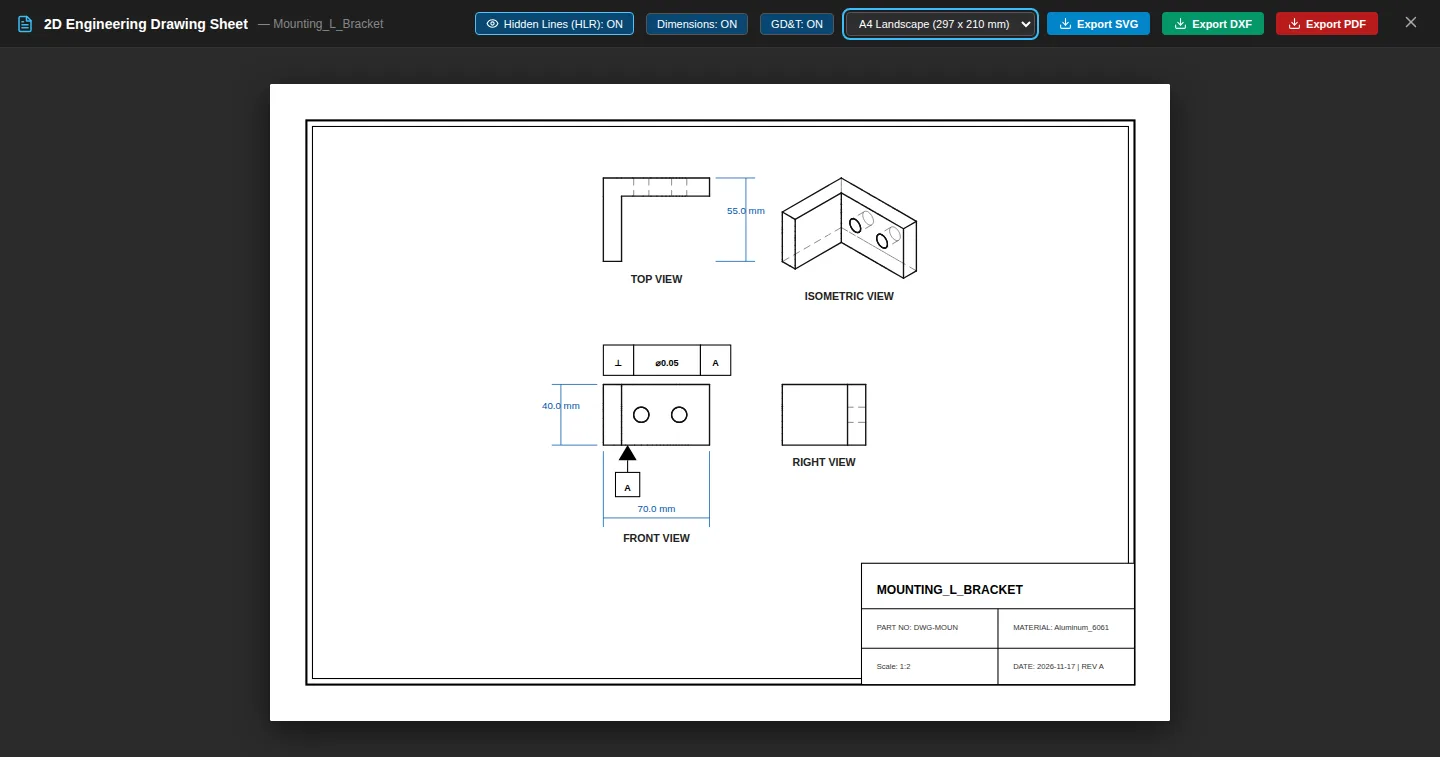
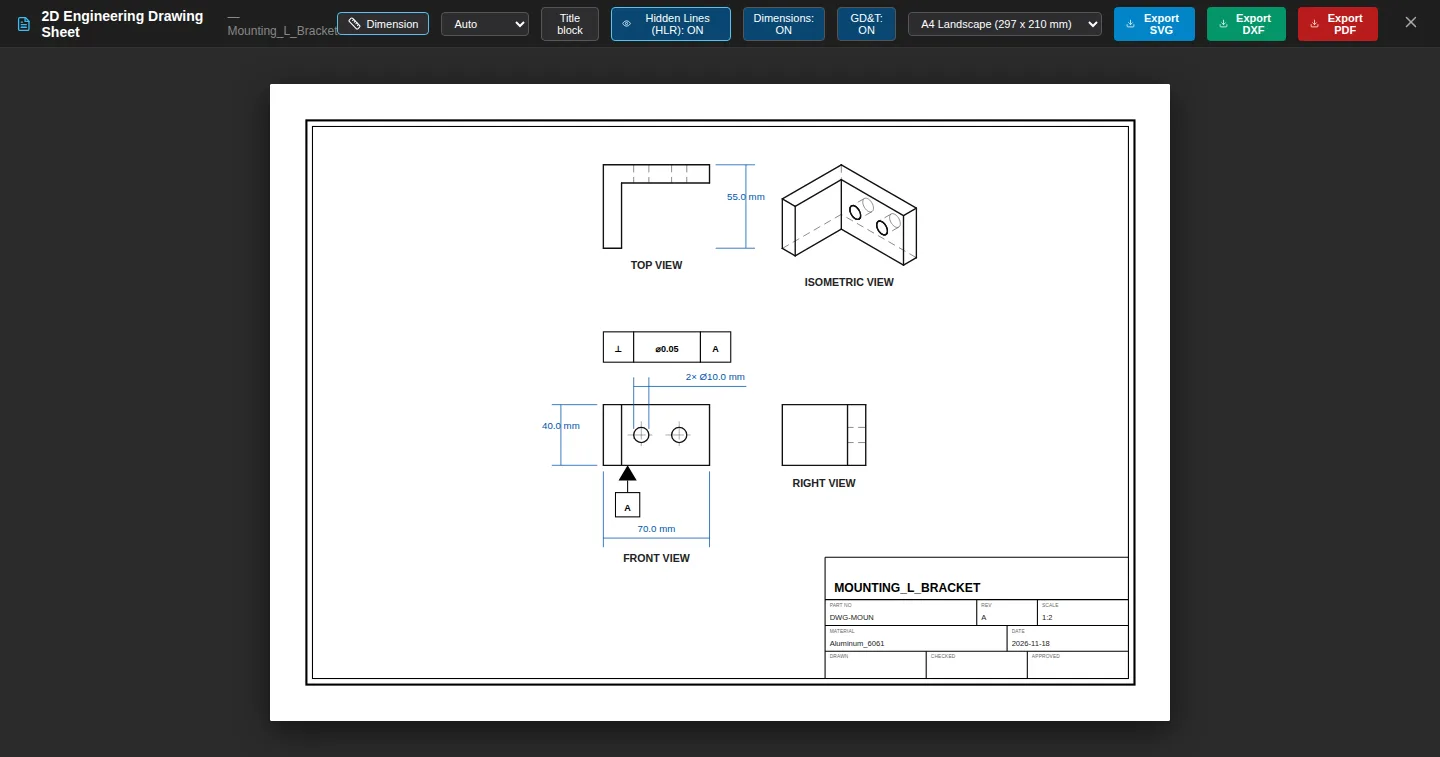
[5.1–5.4, 8.3] Tutorial: own drawing dimensions, title block editor, sheet sizes, unit systems
Chapter 11 gains examples for placing dimensions that follow the model and
for filling in the title block; sheet sizes A4–A0 and ANSI A–D; true circles
and hole callouts; GD&T in PDF as well as SVG. Chapter 8 gains a units
section (MMGS, CGS, MKS, IPS). API table, current limits and glossary
updated. New screenshots from scripts/tutorial-shots.ts; README updated.

diff --git a/docs/tutorial/index.html b/docs/tutorial/index.html
@@ -267,7 +267,7 @@ npm run dev</pre></div>
       <figure class="shot"><img loading="lazy" src="img/01-interface.webp" alt="The CasiWorks Pro window with the starter block"><figcaption>The app as it first opens, with the starter block in the isometric view.</figcaption></figure>
       <div class="table-wrap"><table>
         <tr><th>Area</th><th>Where</th><th>What it does</th></tr>
-        <tr><td><b>Quick-access bar</b></td><td>Top row</td><td>New, Open, Save, Undo, Redo, Rebuild, the <b>Examples</b> menu, Material, Mass Props and Export.</td></tr>
+        <tr><td><b>Quick-access bar</b></td><td>Top row</td><td>New, Open, Save, Undo, Redo, Rebuild, the <b>Examples</b> menu, Material, Mass Props and Export. In the middle: the part's name and its unit system (MMGS, CGS, MKS or IPS); click the units to change them (Chapter 8).</td></tr>
         <tr><td><b>Ribbon</b></td><td>Below the top bar</td><td>Tabs of commands: Features, Sketch, Assembly, Evaluate, Drawing, Tools and Add-ins. The ⌃ button at the far right folds it away.</td></tr>
         <tr><td><b>Feature tree</b></td><td>Left</td><td>The history of your part: material, reference planes, and every sketch and feature in the order it was made. The <b>rollback bar</b> sits at the bottom.</td></tr>
         <tr><td><b>Viewport</b></td><td>Centre</td><td>The 3D model with the Front, Top and Right planes. The <b>VIEW</b> box (top right) jumps to standard views.</td></tr>
@@ -642,7 +642,7 @@ casiworks.commands.execute(<span class="tok-s">'equations.list'</span>);  <span 
 <section class="chapter" id="ch8" data-title="Materials & mass properties" data-part="intermediate" data-n="8">
   <div class="chapter-head"><span class="badge intermediate">Intermediate</span><span class="meta">Chapter 8 · about 10 min</span></div>
   <h2 class="title">Materials and mass properties</h2>
-  <div class="objectives"><strong>You will learn to</strong><ul><li>Give a part a material from the library</li><li>Read its mass, volume, surface area, centre of mass and inertia</li><li>Measure distances, angles and wall thicknesses on the model</li></ul></div>
+  <div class="objectives"><strong>You will learn to</strong><ul><li>Give a part a material from the library</li><li>Read its mass, volume, surface area, centre of mass and inertia</li><li>Measure distances, angles and wall thicknesses on the model</li><li>Work in inches and pounds, or centimetres or metres</li></ul></div>
   <div class="example">
     <div class="example-head"><span class="tag">Example 8.1</span><h4>Weigh the L-bracket in aluminium</h4><div class="specs"><span>Al 6061-T6</span><span>2700 kg/m³</span><span>141.37 g</span></div></div>
     <div class="example-body">
@@ -695,6 +695,32 @@ casiworks.commands.execute(<span class="tok-s">'equations.list'</span>);  <span 
       <div class="callout tip"><span class="ic">💡</span><div><b class="label">From a script</b><p><code>api.features.coordinateSystem({ origin, rotation: { z: 90 } })</code> adds one, and <code>api.model.massProperties({ coordinateSystem: id })</code> reports in it. Its origin and turns can be driven by equations, e.g. <code>rotation.z</code>.</p></div></div>
     </div>
   </div>
+  <h3>Units: millimetres, inches and more</h3>
+  <div class="example">
+    <div class="example-head"><span class="tag">Example 8.4</span><h4>A 2 × 1 × 0.5 inch steel block</h4><div class="specs"><span>IPS</span><span>1 in³</span><span>0.285 lb</span></div></div>
+    <div class="example-body">
+      <p>Each document has a <b>unit system</b>. It sets the units the app shows you and the units it reads when you type a number:</p>
+      <div class="table-wrap"><table>
+        <tr><th>System</th><th>Length</th><th>Mass</th></tr>
+        <tr><td>MMGS (the default)</td><td>millimetre</td><td>gram</td></tr>
+        <tr><td>CGS</td><td>centimetre</td><td>gram</td></tr>
+        <tr><td>MKS</td><td>metre</td><td>kilogram</td></tr>
+        <tr><td>IPS</td><td>inch</td><td>pound</td></tr>
+      </table></div>
+      <ol class="steps">
+        <li>Start a new part. In the top bar, click <b>MMGS</b> next to the part name and choose <b>IPS</b>. The badge at the right of the status bar now says <b>IPS</b>.</li>
+        <li>Sketch a 2 × 1 rectangle on the Front plane. Sketch dimensions are now in inches.</li>
+        <li>Click <b>Extrude</b> and type <code>0.5</code> for the depth. The field shows <b>in</b> after the number. Click <b>OK</b>.</li>
+        <li>Open <b>Mass Props</b>. The volume is 1 in³, the surface area 7 in², and the steel block weighs 0.285 lb. The mass in kilograms is shown next to it in grey.</li>
+      </ol>
+      <div class="gallery">
+        <figure class="shot"><img loading="lazy" src="img/44-units.webp" alt="Extrude panel with the depth in inches and IPS in the top bar"><figcaption>IPS: the depth field takes inches.</figcaption></figure>
+        <figure class="shot"><img loading="lazy" src="img/44b-units-mass.webp" alt="Mass properties in cubic inches and pounds"><figcaption>Mass Properties in inches and pounds.</figcaption></figure>
+      </div>
+    </div>
+  </div>
+  <div class="callout tip"><span class="ic">💡</span><div><b class="label">Type any unit</b><p>A number on its own is read in the document's units. Add a unit to type in another one: <code>25.4 mm</code>, <code>1in</code>, <code>1"</code> or <code>2 ft</code> all work in any length field.</p></div></div>
+  <div class="callout warn"><span class="ic">⚠</span><div><b class="label">Stored in millimetres</b><p>The unit system only changes what you see and type. The model, saved files, equations (Tools ▸ Equations) and the scripting API stay in millimetres, kilograms and seconds. A script that makes a 1 inch extrude passes <code>depth: 25.4</code>. Changing the units never changes the model.</p></div></div>
   <div class="exercise"><b>Exercise 8.</b> Find the lightest material in the library that still has a yield strength above 250 MPa. What does the bracket weigh in it?<label><input type="checkbox" data-done="ch8"> I've done this</label></div>
 </section>
 
@@ -813,30 +839,58 @@ api.assembly.drive(api.assembly.mates().at(-1).id, 90);   <span class="tok-c">//
 </section>
 
 <section class="chapter" id="ch11" data-title="2D engineering drawings" data-part="advanced" data-n="11">
-  <div class="chapter-head"><span class="badge advanced">Advanced</span><span class="meta">Chapter 11 · about 10 min</span></div>
+  <div class="chapter-head"><span class="badge advanced">Advanced</span><span class="meta">Chapter 11 · about 20 min</span></div>
   <h2 class="title">2D engineering drawings</h2>
-  <div class="objectives"><strong>You will learn to</strong><ul><li>Make a standard three-view drawing sheet from a part</li><li>Turn hidden lines, dimensions and GD&amp;T on and off</li><li>Export the sheet as PDF, SVG or DXF</li><li>Make an assembly drawing with a parts list and item balloons</li></ul></div>
+  <div class="objectives"><strong>You will learn to</strong><ul><li>Make a standard three-view drawing sheet from a part</li><li>Turn hidden lines, dimensions and GD&amp;T on and off</li><li>Export the sheet as PDF, SVG or DXF</li><li>Add your own dimensions that follow the model when it changes</li><li>Fill in the title block: company, part number, revision and names</li><li>Make an assembly drawing with a parts list and item balloons</li></ul></div>
   <div class="example">
     <div class="example-head"><span class="tag">Example 11.1</span><h4>A drawing sheet for the L-bracket</h4><div class="specs"><span>A4 landscape</span><span>Front · Top · Right · Iso</span><span>Title block</span></div></div>
     <div class="example-body">
       <ol class="steps">
         <li>Open the L-bracket and click the <b>Drawing</b> tab on the ribbon.</li>
-        <li>Choose the sheet size in the <b>SHEET</b> group: A4 landscape or portrait, A3 landscape or ANSI B.</li>
+        <li>Choose the sheet size in the <b>SHEET</b> group: ISO A4 (landscape or portrait), A3, A2, A1 or A0, or ANSI A, B, C or D. On a bigger sheet the views are drawn at a bigger scale.</li>
         <li>In the <b>SHOW</b> group, switch <b>Hidden Lines</b>, <b>Dimensions</b> and <b>GD&amp;T</b> on or off. A highlighted button is on.</li>
-        <li>Click <b>Open Sheet</b>. The sheet shows the front, top and right views, an isometric view and a title block with the part name, material and date. The green <b>2D Dwg</b> button on the FEA panel opens the same sheet.</li>
+        <li>Click <b>Open Sheet</b>. The sheet shows the front, top and right views, an isometric view and a title block with the part name, material and date. Holes are drawn as true circles with centre marks, and their sizes are given as callouts such as <i>2× Ø10.0 mm</i>. The green <b>2D Dwg</b> button on the FEA panel opens the same sheet.</li>
         <li>Click <b>PDF</b> for a sheet to print or send, <b>SVG</b> to put it in a document or web page, or <b>DXF</b> to open it in AutoCAD or another 2D CAD program. You can export straight from the ribbon without opening the sheet, or use the <b>Export</b> buttons on the sheet. The PDF is vector: lines stay sharp at any zoom, and it prints at true scale on the chosen paper size.</li>
       </ol>
       <figure class="shot"><img loading="lazy" src="img/26-drawing-tab.webp" alt="Drawing tab of the ribbon with sheet, show and export groups"><figcaption>The Drawing tab: sheet size, what to show, and export.</figcaption></figure>
       <figure class="shot"><img loading="lazy" src="img/26-drawing.webp" alt="Drawing sheet of the L-bracket"><figcaption>The drawing sheet, with dimensions, a datum and a feature control frame.</figcaption></figure>
     </div>
   </div>
-  <div class="callout tip"><span class="ic">💡</span><div><b class="label">Shared settings</b><p>The ribbon and the sheet window use the same settings, so a switch changed in one shows in the other. The settings stay when you start a new part. DXF holds the views and dimensions; the GD&amp;T symbols are in the SVG only.</p></div></div>
-  <div class="callout warn"><span class="ic">⚠</span><div><b class="label">Current limit</b><p>The views, dimensions and GD&amp;T symbols are placed for you, from the first body. You cannot add a section view or your own dimensions yet.</p></div></div>
+  <div class="callout tip"><span class="ic">💡</span><div><b class="label">Shared settings</b><p>The ribbon and the sheet window use the same settings, so a switch changed in one shows in the other. The settings stay when you start a new part. DXF holds the views, circles and arcs, dimensions, border and title block. The GD&amp;T symbols are in the SVG and the PDF.</p></div></div>
+  <div class="example">
+    <div class="example-head"><span class="tag">Example 11.2</span><h4>Dimension the bracket's holes yourself</h4><div class="specs"><span>Dimension tool</span><span>Ø10 × 2</span><span>Follows the model</span></div></div>
+    <div class="example-body">
+      <ol class="steps">
+        <li>Open the L-bracket's sheet and click <b>Dimension</b> at the top of the sheet window. The picker next to it says <b>Auto</b>.</li>
+        <li>Click the rim of a hole in the front view. Its diameter is placed: <i>Ø10.0 mm</i>. A click on an arc gives its radius.</li>
+        <li>For a distance, click two points: corners, hole centres, or one of each. <b>Auto</b> measures along the longer direction. Choose <b>Horizontal</b> or <b>Vertical</b> to choose the direction yourself.</li>
+        <li>Each dimension you add is listed at the bottom left, with the view it is in. Click its <b>×</b> to delete it. <kbd>Esc</kbd> cancels a half-finished pick, a second <kbd>Esc</kbd> leaves the tool, and a third closes the sheet.</li>
+        <li>Close the sheet and change the hole sketch, for example make the holes Ø12. Open the sheet again: your dimensions now read Ø12.0 mm. They are saved with the part, and <kbd>Ctrl</kbd>+<kbd>Z</kbd> undoes them.</li>
+      </ol>
+      <figure class="shot"><img loading="lazy" src="img/26d-drawing-dimensions.webp" alt="Two diameter dimensions added to the front view, listed at the bottom left"><figcaption>Two diameters added with the Dimension tool, and listed at the bottom left.</figcaption></figure>
+    </div>
+  </div>
+  <div class="callout tip"><span class="ic">💡</span><div><b class="label">When a dimension loses its edge</b><p>A dimension remembers the corner, centre or circle it was placed on and finds it again after a change. If that feature is gone, for example a hole you deleted, the dimension is taken off the sheet. Its line in the list turns red and says <i>not found on the changed model</i>, with the value it had. Delete it, or undo the change to bring it back.</p></div></div>
+  <div class="example">
+    <div class="example-head"><span class="tag">Example 11.3</span><h4>Fill in the title block</h4><div class="specs"><span>Company</span><span>Part number</span><span>Drawn · checked · approved</span></div></div>
+    <div class="example-body">
+      <ol class="steps">
+        <li>On the sheet, click <b>Title block</b>. A panel opens on the right with one field for each box in the title block.</li>
+        <li>Empty fields show in grey the value the sheet uses: the title from the part name, revision A, the material and today's date.</li>
+        <li>Type <i>Acme Engineering</i> for the company, <i>BRK-1001</i> for the part number, and names for drawn and checked by. Each one shows on the sheet when you press <kbd>Enter</kbd> or move to the next field.</li>
+        <li>Clear a field to use the generated value again. The fields are saved with the part and print on the PDF, SVG and DXF.</li>
+      </ol>
+      <figure class="shot"><img loading="lazy" src="img/26e-title-block.webp" alt="Title block editor next to the sheet, with company, part number and names filled in"><figcaption>The title block editor. Grey fields use the generated value.</figcaption></figure>
+    </div>
+  </div>
+  <div class="callout warn"><span class="ic">⚠</span><div><b class="label">Current limit</b><p>The views are placed for you, from the first body. There are no section or detail views yet, and the automatic dimensions and GD&amp;T cannot be moved by hand.</p></div></div>
   <div class="code"><span class="lang">Console · JavaScript</span><button type="button">Copy</button><pre><span class="tok-c">// The same from the scripting console (chapter 15)</span>
 casiworks.commands.execute(<span class="tok-s">'drawing.options'</span>, { sheetSize: <span class="tok-s">'A3_LANDSCAPE'</span>, dimensions: <span class="tok-k">true</span>, gdt: <span class="tok-k">false</span> });
+casiworks.drawings.addDimension({ view: <span class="tok-s">'front'</span>, points: [{ x: <span class="tok-n">15</span>, y: <span class="tok-n">5</span> }] });  <span class="tok-c">// a point on a hole's rim: its diameter</span>
+casiworks.drawings.setTitleBlock({ company: <span class="tok-s">'Acme Engineering'</span>, partNumber: <span class="tok-s">'BRK-1001'</span> });
 casiworks.commands.execute(<span class="tok-s">'drawing.export'</span>, { format: <span class="tok-s">'dxf'</span> });</pre></div>
   <div class="example">
-    <div class="example-head"><span class="tag">Example 11.2</span><h4>An assembly drawing with a parts list</h4><div class="specs"><span>Plate + 2 brass pins</span><span>Parts list</span><span>Item balloons</span></div></div>
+    <div class="example-head"><span class="tag">Example 11.4</span><h4>An assembly drawing with a parts list</h4><div class="specs"><span>Plate + 2 brass pins</span><span>Parts list</span><span>Item balloons</span></div></div>
     <div class="example-body">
       <ol class="steps">
         <li>Build the assembly from Example 10.1, with a second pin. Make the pins brass in the <b>BOM</b> window (chapter 10).</li>
@@ -1018,7 +1072,7 @@ run(<span class="tok-s">'model.setMaterial'</span>, { key: <span class="tok-s">'
     <tr><td><code>api.model</code></td><td><code>massProperties({ coordinateSystem })</code>, <code>boundingBox()</code>, <code>measure(a, b)</code> (since 1.6), <code>naturalFrequencies(options)</code> (since 1.14), <code>rebuild()</code>, <code>errors()</code></td></tr>
     <tr><td><code>api.equations</code> · <code>api.configurations</code></td><td><code>set([{ name, expression }])</code>, <code>link(featureId, 'depth', 'wall * 8')</code>, <code>list()</code> · <code>set([{ name, values }])</code>, <code>activate('Large')</code> (since 1.5)</td></tr>
     <tr><td><code>api.assembly</code></td><td><code>insert({ name, shape })</code>, <code>mate({ type, component1, component2 })</code>, <code>solve()</code>, <code>setMaterial(ids, key)</code>, <code>bom()</code> (since 1.5), <code>interference()</code> (since 1.13)</td></tr>
-    <tr><td><code>api.drawings</code></td><td><code>setOptions({ subject: 'assembly' })</code>, <code>svg()</code>, <code>dxf()</code>, <code>pdf()</code> (1.7): the drawing sheet, also headless (since 1.5)</td></tr>
+    <tr><td><code>api.drawings</code></td><td><code>setOptions({ subject: 'assembly' })</code>, <code>svg()</code>, <code>dxf()</code>, <code>pdf()</code> (1.7): the drawing sheet, also headless (since 1.5); <code>addDimension({ view, points })</code>, <code>dimensions()</code>, <code>removeDimension(id)</code> (since 1.17); <code>getTitleBlock()</code>, <code>setTitleBlock({ company, … })</code> (since 1.18)</td></tr>
     <tr><td><code>api.commands</code></td><td><code>list()</code>, <code>execute(id, args)</code>. Every ribbon button is a command.</td></tr>
     <tr><td><code>api.macros</code> · <code>api.plugins</code></td><td><code>start()</code>, <code>stop()</code>, <code>run(macro)</code> · <code>load(url)</code>, <code>unload(id)</code></td></tr>
     <tr><td><code>api.on(event, fn)</code></td><td><code>rebuild</code>, <code>featureAdded</code>, <code>featureRemoved</code>, <code>commandExecuted</code>, …</td></tr>
@@ -1205,7 +1259,7 @@ curl -s -H "Authorization: Bearer $KEY" -o bracket.stl \
     <tr><th>Area</th><th>What happens today</th><th>What to do instead</th></tr>
     <tr><td>Fillet, Chamfer, Shell</td><td>Added to the tree with ⚠ and not applied.</td><td>Round corners with sketch arcs and Trim; hollow parts with an inward Offset and Extrude Cut.</td></tr>
     <tr><td>Surfaces and sheet metal</td><td>Not available: there are no surface or sheet-metal tools.</td><td>Model thin parts as extrudes (see the U-Channel example).</td></tr>
-    <tr><td>Drawing sheet</td><td>Views, dimensions and GD&amp;T are placed for you; no section views or your own dimensions.</td><td>Export DXF and add these in a 2D CAD program.</td></tr>
+    <tr><td>Drawing sheet</td><td>Views are placed for you; no section or detail views. You can add your own dimensions, but the automatic ones and the GD&amp;T cannot be moved.</td><td>Export DXF and add section views in a 2D CAD program.</td></tr>
     <tr><td>FEA faces</td><td>Only the six bounding-box sides of the part.</td><td>Orient the part so the support and load are on outer faces.</td></tr>
     <tr><td>Mates on faces</td><td>Flat faces and cylinders (holes, shafts) are recognised; edges, cones and spheres are not.</td><td>Mate the flat or round face next to the edge, or use a bounding-box face from a script.</td></tr>
     <tr><td>STEP and IGES export</td><td>Faceted (triangles), not exact curves.</td><td>Send a 2D drawing with machined parts.</td></tr>
@@ -1236,7 +1290,9 @@ curl -s -H "Authorization: Bearer $KEY" -o bracket.stl \
     <tr><td>Tet4 / Tet10</td><td>Tetrahedral finite elements with 4 nodes (linear) or 10 nodes (quadratic).</td></tr>
     <tr><td>von Mises stress</td><td>A single stress value that is compared with the material's yield strength.</td></tr>
     <tr><td>Safety factor</td><td>Yield strength divided by the peak stress. Above 1 means the part does not yield.</td></tr>
-    <tr><td>MMGS</td><td>The unit system: millimetre, gram, second.</td></tr>
+    <tr><td>Unit system</td><td>The units a document is shown and typed in: MMGS (millimetre, gram, second, the default), CGS, MKS or IPS (inch, pound, second). The model itself is always stored in millimetres.</td></tr>
+    <tr><td>Associative dimension</td><td>A dimension on a drawing that is attached to the model's geometry, so it updates when the part changes.</td></tr>
+    <tr><td>Title block</td><td>The box at the bottom right of a drawing sheet with the title, part number, revision, scale, material, date and names.</td></tr>
   </table></div>
   <p class="meta">Screenshots were taken from the real app by <code>scripts/tutorial-shots.ts</code>. Run <code>npm run build &amp;&amp; node scripts/tutorial-shots.ts</code> to update them after the UI changes.</p>
 </section>

diff --git a/scripts/tutorial-shots.ts b/scripts/tutorial-shots.ts
@@ -469,6 +469,64 @@ const SHOTS: Shot[] = [
     },
   },
   {
+    name: '26d-drawing-dimensions', async run(p) {
+      await example(p, 'l_bracket');
+      await run(p, 'drawing.open');
+      await waitFor(() => p.eval<number>(`document.querySelectorAll('.drawing-sheet-view #FRONT_VIEW circle.visible-line').length`), 'holes on the sheet');
+      await p.click('Dimension', 300);
+      // Click the rim of each hole in the front view: one diameter each
+      const rims = JSON.parse(await p.eval<string>(`JSON.stringify([...document.querySelectorAll('.drawing-sheet-view #FRONT_VIEW circle.visible-line')].slice(0, 2).map(c => {
+        const pt = new DOMPoint(+c.getAttribute('cx') + +c.getAttribute('r'), +c.getAttribute('cy')).matrixTransform(c.ownerSVGElement.getScreenCTM());
+        return { x: pt.x, y: pt.y };
+      }))`)) as Array<{ x: number; y: number }>;
+      for (const r of rims) { await p.mouseClick(r.x, r.y); await sleep(400); }
+      await waitFor(() => p.eval<number>(`document.querySelectorAll('.drawing-dimension').length`), 'placed dimensions');
+      await sleep(300);
+      await p.screenshot('26d-drawing-dimensions');
+      await p.eval(`window.dispatchEvent(new KeyboardEvent('keydown', { key: 'Escape' }))`);
+      await sleep(200);
+      await p.eval(`window.dispatchEvent(new KeyboardEvent('keydown', { key: 'Escape' }))`);
+      await sleep(300);
+      await p.eval(`window.casiworks.commands.execute('drawing.dimensions').forEach(d => window.casiworks.commands.execute('drawing.removeDimension', { id: d.id }))`);
+    },
+  },
+  {
+    name: '26e-title-block', async run(p) {
+      await example(p, 'l_bracket');
+      await run(p, 'drawing.titleBlock', { company: 'Acme Engineering', partNumber: 'BRK-1001', drawnBy: 'A. Kumar', checkedBy: 'R. Iyer' }, 200);
+      await run(p, 'drawing.open');
+      await waitFor(() => p.eval<number>(`document.querySelectorAll('svg line.visible-line').length`), 'drawing sheet');
+      await p.click('Title block', 400);
+      await p.screenshot('26e-title-block');
+      await p.click('Title block', 200);
+      await p.eval(`window.dispatchEvent(new KeyboardEvent('keydown', { key: 'Escape' }))`);
+      await sleep(300);
+      await run(p, 'drawing.titleBlock', { company: '', partNumber: '', drawnBy: '', checkedBy: '' }, 200);
+    },
+  },
+  {
+    name: '44-units', async run(p) {
+      await fresh(p);
+      await feaPanel(p, false);
+      await pick(p, '.doc-units-select', 'IPS');
+      await sleep(200);
+      await p.eval(`window.casiworks.sketches.create({ entities: [{ type: 'rectangle', corner1: { x: -25.4, y: -12.7 }, corner2: { x: 25.4, y: 12.7 } }] })`);
+      await sleep(400);
+      await p.click('Features', 300);
+      await p.click('Extruded Boss/Base', 500);
+      await setField(p, 'Extrude Depth', '0.5');
+      await sleep(400);
+      await iso(p);
+      await p.screenshot('44-units');
+      await apply(p);
+      await run(p, 'evaluate.massProperties', undefined, 700);
+      await p.screenshot('44b-units-mass');
+      await closeDialog(p);
+      await pick(p, '.doc-units-select', 'MMGS');
+      await sleep(200);
+    },
+  },
+  {
     name: '27-export', async run(p) {
       await run(p, 'file.export', undefined, 500);
       await p.screenshot('27-export');

diff --git a/README.md b/README.md
@@ -66,7 +66,7 @@ casiworks/
 │   │   │   ├── CommandManager.tsx # Ribbon toolbar (Features, Sketch, Surfaces, Assembly, Drawing, FEA)
 │   │   │   ├── FeatureTree.tsx    # Feature Tree (history, planes, suppression, rollback)
 │   │   │   ├── PropertyPanel.tsx  # Contextual property panel with parameter binding and debounced updates
-│   │   │   ├── StatusBar.tsx      # MMGS units, grid/snap toggles, tool status
+│   │   │   ├── StatusBar.tsx      # Unit system badge, grid/snap toggles, tool status
 │   │   │   └── MainLayout.tsx     # Master flex layout
 │   │   ├── dialogs/
 │   │   │   ├── ExportDialog.tsx   # Multi-format CAD export (STEP, IGES, STL, DXF, OBJ)
@@ -380,7 +380,7 @@ Running a macro file never evaluates code: it is data. Scripts (`.mjs`) run
 where you choose to run them (browser console, `node`).
 
 Namespaces: `document`, `sketches`, `features`, `model`, `materials`, `history`.
-Units are mm, degrees, kg and kg/m³. Invalid calls throw `CasiWorksAPIError`
+Units are mm, degrees, kg and kg/m³, whatever unit system the document is shown in (MMGS, CGS, MKS or IPS). Invalid calls throw `CasiWorksAPIError`
 with a stable `code` (`INVALID_ARGUMENT`, `NOT_FOUND`, `INVALID_DOCUMENT`).
 All return values are plain JSON data.
 
@@ -454,10 +454,11 @@ The suite runs in CI-friendly Node with no browser: `npm test`. Run `npm run bui
 
 6. **2D Engineering Drawings & GD&T**:
    - Multi-view orthographic projection (Front, Top, Right, Isometric) with Hidden Line Removal (HLR).
-   - Smart dimensions, extension lines, arrowheads, tolerances.
+   - Holes and arcs drawn as true circles and arcs, with centre marks and hole callouts.
+   - Smart dimensions, extension lines, arrowheads, tolerances; your own dimensions placed on the sheet that follow the model when it changes.
    - ASME Y14.5 / ISO 1101 GD&T datum feature symbols and Feature Control Frames.
-   - Standard drawing sheets (A4, A3, ANSI B) with engineering title blocks.
-   - SVG and AutoCAD DXF vector export.
+   - Standard drawing sheets (ISO A4–A0, ANSI A–D) with an editable title block (company, part number, revision, drawn/checked/approved).
+   - SVG, PDF and AutoCAD DXF vector export.
 
 7. **Multi-Component Assembly**:
    - Component insertion and coordinate transformation.
